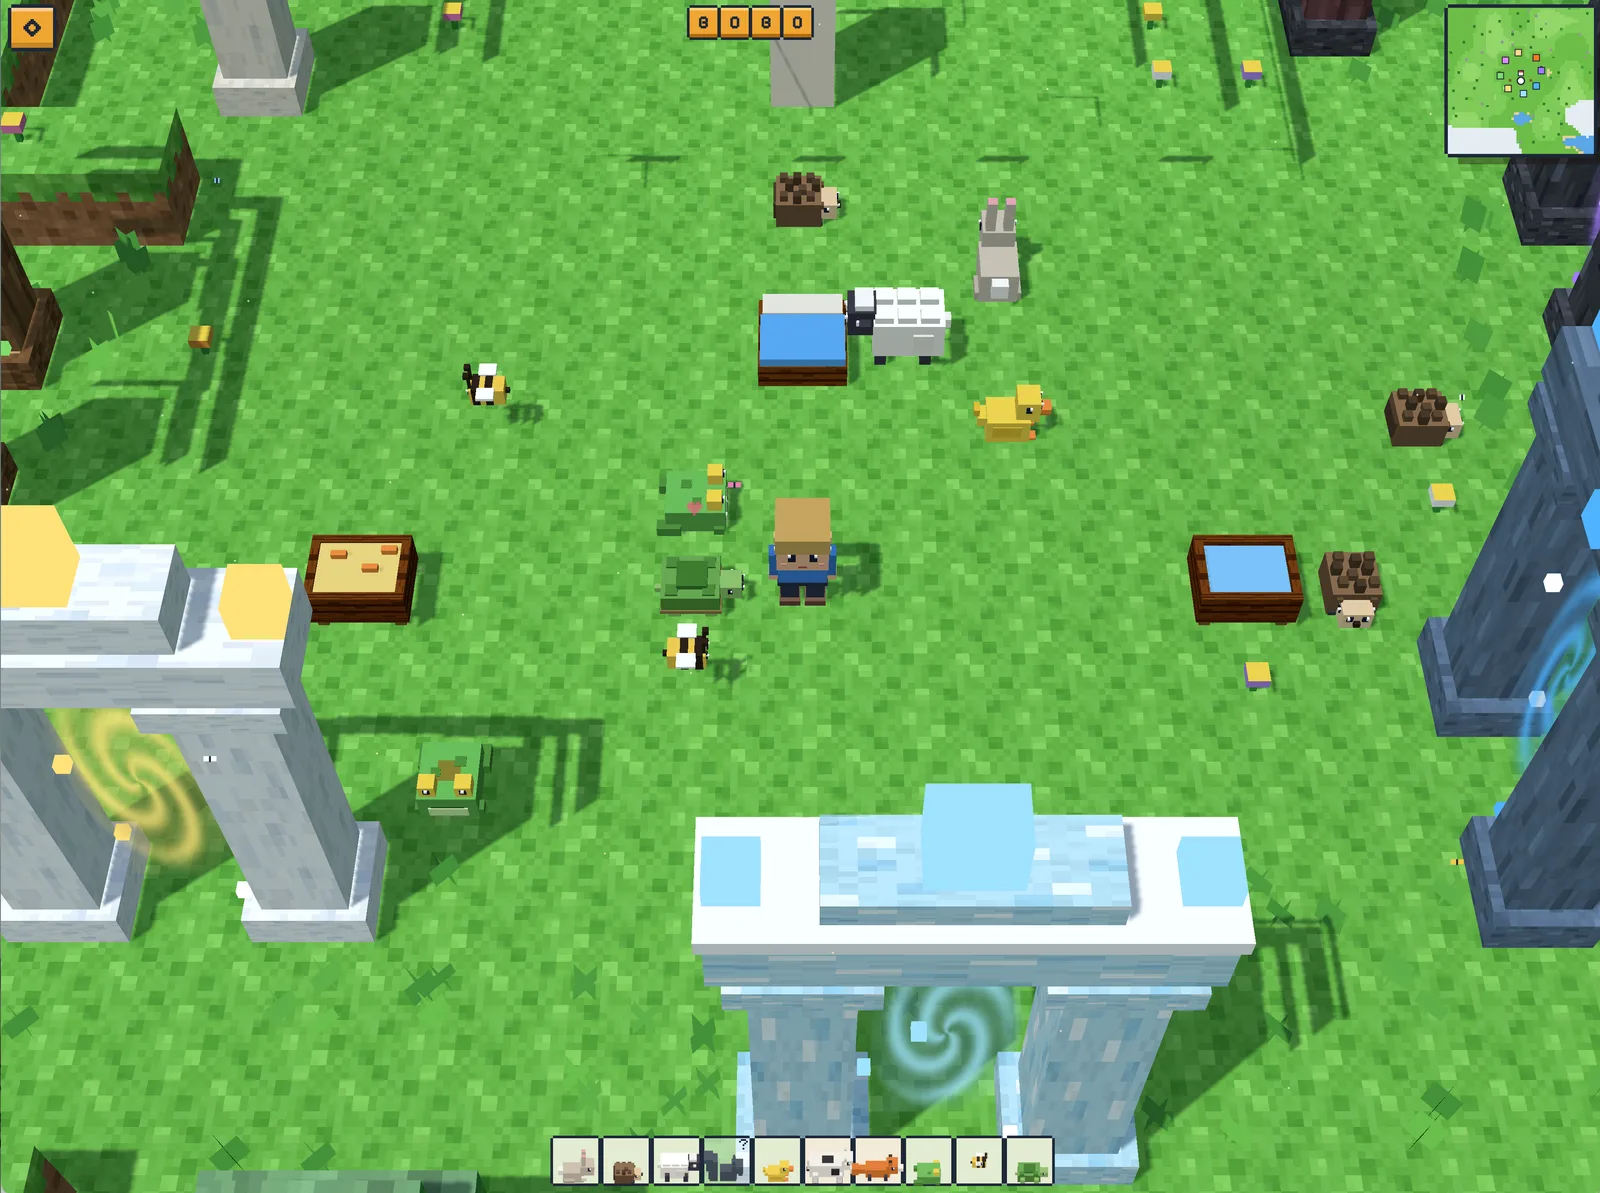
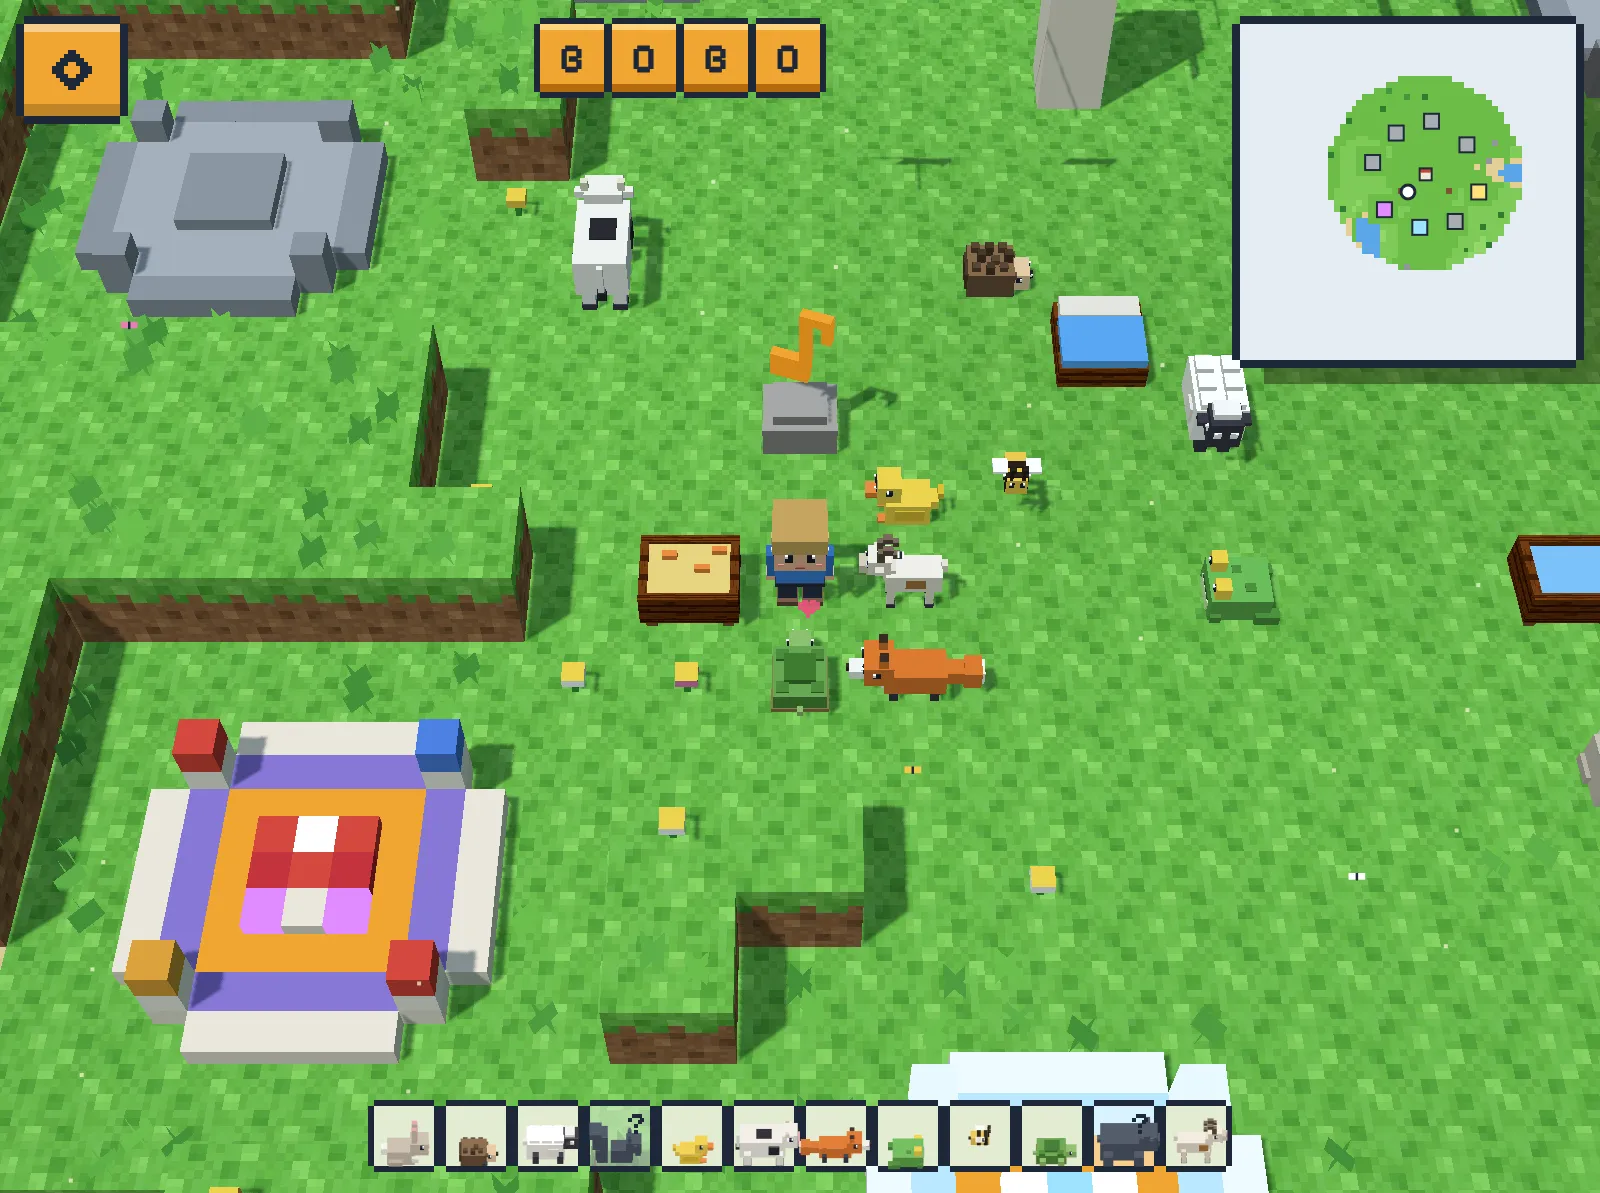
Make gold stand out on the lava platform and refresh the landing shot
On the lava platform the glowing cracks touched the gold frame and the
access fields, and gold and glow were nearly the same colour. The cracks
now stop short of the gold, and the flame picture has dark corners, so
the gold sits on dark basalt. A data test checks that every socket voxel
next to gold differs clearly from it in every world.

The landing screenshot shows the Lichtung with portal platforms instead
of the old portal gates; alt text and caption describe it.

diff --git a/src/data/games/mitwachsen-portals.test.ts b/src/data/games/mitwachsen-portals.test.ts
@@ -55,6 +55,31 @@ describe('Portal-Plattformen: Form', () => {
     });
   }
 
+  it('Gold hebt sich in jeder Welt vom Sockel daneben ab (bereit und nach der Ankunft)', () => {
+    const rgb = (c: string) => [1, 3, 5].map((i) => parseInt(c.slice(i, i + 2), 16));
+    const dist = (a: string, b: string) => Math.hypot(...rgb(a).map((v, i) => v - rgb(b)[i]!));
+    // Paare (Gold, Nachbar im Sockel) je Welt und Zustand; die Mitte liegt unter dem Bild
+    const pairs = GATES.flatMap((g) =>
+      (['ready', 'arrived'] as const).flatMap((look) => {
+        const base = platformLook(g.id, 'gate', look).filter((v) => v.layer === 0);
+        const at = new Map(base.map((v) => [`${v.x},${v.z}`, v]));
+        return base
+          .filter((v) => v.gold)
+          .flatMap((v) => [
+            at.get(`${v.x + 1},${v.z}`),
+            at.get(`${v.x - 1},${v.z}`),
+            at.get(`${v.x},${v.z + 1}`),
+            at.get(`${v.x},${v.z - 1}`),
+          ])
+          .filter((n) => n && !n.gold && n.role !== 'core')
+          .map((n) => ({ n: n!, label: `${g.id} ${look} ${n!.x},${n!.z}` }));
+      }),
+    );
+    expect(pairs.length).toBeGreaterThan(100);
+    // Glut lag bei gut 50
+    for (const { n, label } of pairs) expect(dist(n.color, GOLD.top), label).toBeGreaterThanOrEqual(70);
+  });
+
   it('Rahmen-Ring fürs Lauflicht: 16 verschiedene Plätze, genau die des Gold-Rahmens', () => {
     const frame = platformVoxels('eis')
       .filter((v) => v.role === 'frame')

diff --git a/src/data/games/mitwachsen-portals.ts b/src/data/games/mitwachsen-portals.ts
@@ -122,20 +122,21 @@ export const PLATFORMS: Record<GateTheme, readonly (readonly string[])[]> = {
     [EMPTY, '.p.....P.', EMPTY, '...uWu...', '...WWW...', '...WWW...', EMPTY, '.P.....p.', EMPTY],
     NONE,
   ],
-  // Glutstein: kühler Basalt, Glutrisse über die Zugänge zur Mitte, runde Glutsteine; Bild: freundliche Flamme
+  // Glutstein: kühler Basalt, Glutrisse an den Zugängen, runde Glutsteine; Bild: freundliche Flamme. Um das Gold liegt
+  // nur dunkler Basalt (die Risse enden vorher), die Flamme hat dunkle Ecken: Gold und Glut sind sich sonst zu ähnlich
   lava: [
     [
       '..xxrxx..',
-      '.XXXrXXX.',
+      '.XXXXXXX.',
       'xXGGGGGXx',
       'xXGRRRGXx',
-      'rrGRRRGrr',
+      'rXGRRRGXr',
       'xXGRRRGXx',
       'xXGGGGGXx',
-      '.XXXrXXX.',
+      '.XXXXXXX.',
       '..xxrxx..',
     ],
-    [EMPTY, '.X.....X.', EMPTY, '...xrx...', '...rRr...', '...rRr...', EMPTY, '.X.....X.', EMPTY],
+    [EMPTY, '.X.....X.', EMPTY, '...xrx...', '...rRr...', '...xRx...', EMPTY, '.X.....X.', EMPTY],
     [EMPTY, '.r.....r.', EMPTY, EMPTY, EMPTY, EMPTY, EMPTY, '.r.....r.', EMPTY],
   ],
   // Kristallnest: dunkle Schale, Kristallsäulen in den Ecken; Bild: Kristall-Raute

diff --git a/src/data/landing.ts b/src/data/landing.ts
@@ -30,8 +30,9 @@ export const ABOUT = {
   ],
   // Bildunterschrift zum Bild der Lichtung (src/assets/games/mitwachsen.webp)
   shotAlt:
-    'Die Lichtung im Spiel: in der Mitte das Bett und die Figur, rundherum Hase, Igel, Schaf, Ente, Frosch und Biene, links ein Futtertrog, rechts ein Wassertrog, am Rand leuchtende Portale',
-  shotCaption: 'Die Lichtung mit dem Bett: Hier wohnen die Tiere, die dein Kind schon nach Hause gebracht hat.',
+    'Die Lichtung im Spiel: in der Mitte die Figur, dahinter Bett und Klangstein, rundherum Kuh, Zicklein, Igel, Schaf, Biene, Ente, Fuchs, Schildkröte und Frosch auf der Wiese, links ein Futtertrog, rechts ein Wassertrog, unten links eine leuchtende Portal-Plattform mit Pilzbild, oben links eine graue, noch schlafende Plattform',
+  shotCaption:
+    'Die Lichtung mit dem Bett: Hier wohnen die Tiere, die dein Kind schon nach Hause gebracht hat. Ringsum bringen Portal-Plattformen die Figur zu den großen Toren.',
   // Eckdaten zusätzlich zu denen aus src/content/games/mitwachsen.md
   facts: [
     ['Kosten', 'kostenlos, ohne Werbung'],

diff --git a/docs/specs/mitwachsen.md b/docs/specs/mitwachsen.md
@@ -262,7 +262,7 @@ Invarianten:
 | Nebel | keine Blöcke: Die Welt verblasst am Rand des Erkundeten weich in die Himmelsfarbe und verschwindet im Dunst. 3D: Nebel-Maske (128 × 128 Felder um die Figur, zweimal weich verwischt) als Textur, ein Shader-Zusatz mischt nach der Beleuchtung in die Himmelsfarbe (nachts dunkel). 2D: Unerkundetes bleibt leer, am Rand heller Dunst |
 | Große Tore | Mächtige Torhäuser (9 Felder breit, Türme gut 6 Ebenen hoch) mit geschlossener Doppeltür und leuchtendem Zeichen, je Welt geschmückt: Eis (Schneehauben, Eisspitzen, Eiszapfen), Sand (Stufenkronen, Bänder), Wasser (Wasserfälle, Muscheln), Lava (glühende Adern und Krone), Höhle (leuchtende Kristalle), Wald (Laubkronen, Ranken), Wolken (Wolkentürme, Regenbogen), Pilze (Pilzstiele mit Riesenhüten). Vor der Figur wird ihr Mauerwerk durchsichtig. Steht die Figur vor einem Tor, lichtet sich der Nebel im Gang dahinter (Blick in die Welt) |
 | Welten hinter den Toren | Eis: Schnee, zugefrorene Seen, Eisblöcke, Schneetannen. Sand: Dünen, blühende Kakteen, Oasen mit Palmen. Wasser: Inseln mit Palmen und Seerosen. Lava: Basalt, glühende Flüsse und Seen, kahle Bäume. Höhle: dunkler Stein, leuchtende Kristalle, Tropfsteine. Wald: Bäume, Tannen, Beerenbüsche, Farne. Wolken: Wolkeninseln über dem Himmel. Pilze: lila Moos und Riesenpilze. Tiere dort sind vorerst die der Landschaft |
-| Portal-Plattformen | Flaches Achteck aus 9 × 9 Voxeln (ein Voxel ein Drittel Feld): Sockel 0,25 hoch im Material der Welt, Mittelfeld 0,15 höher mit dem Bild der Welt, niedrige Zierde nur auf den Eckfeldern (höchstens 0,9); auf der Plattform steht die Figur entsprechend höher. **Schlafend** am Tor: alles matt, Bild nur grau eingeritzt, kein Gold. **Schlafend** am Bett: leerer grauer Sockel aus Lichtungsstein, für alle Welten gleich (erhöhte Mitte, je ein grauer Eckstein, damit man sieht, dass die Ecken fest sind), ohne Bild, ohne Zierde der Welt. **Erwachen:** das Licht kommt in vier Stufen. **Bereit:** Bild leuchtet und pulsiert, Gold-Rahmen um die Mitte („hier drauf“) mit Lauflicht, Funken kreisen flach über der Mitte; am Bett Lauflicht und Funken nur, wenn die Figur nah ist. **Angekommen:** Bild gedimmt, kein Rahmen-Gold, dafür Gold auf den äußeren Voxeln der vier Zugänge („erst runter“), pulsiert in Stufen; beim Heruntersteigen springt es mit einem Pling zurück in den Rahmen. Bei reduzierter Bewegung: keine Funken, kein Lauflicht, kein Pulsieren, kein Stufen-Erwachen; Zustände nur an Farbe und Helligkeit (Gold mit dunkler Kante). 2D-Ersatz: dieselben Voxel als kleine Quader, ohne Bewegung. Auf der Karte: Kästchen, sobald erkundet, grau solange schlafend, farbig, sobald wach. Erwachen und Reisen klingen und funkeln |
+| Portal-Plattformen | Flaches Achteck aus 9 × 9 Voxeln (ein Voxel ein Drittel Feld): Sockel 0,25 hoch im Material der Welt, Mittelfeld 0,15 höher mit dem Bild der Welt, niedrige Zierde nur auf den Eckfeldern (höchstens 0,9); auf der Plattform steht die Figur entsprechend höher. **Schlafend** am Tor: alles matt, Bild nur grau eingeritzt, kein Gold. **Schlafend** am Bett: leerer grauer Sockel aus Lichtungsstein, für alle Welten gleich (erhöhte Mitte, je ein grauer Eckstein, damit man sieht, dass die Ecken fest sind), ohne Bild, ohne Zierde der Welt. **Erwachen:** das Licht kommt in vier Stufen. **Bereit:** Bild leuchtet und pulsiert, Gold-Rahmen um die Mitte („hier drauf“) mit Lauflicht, Funken kreisen flach über der Mitte; am Bett Lauflicht und Funken nur, wenn die Figur nah ist. **Angekommen:** Bild gedimmt, kein Rahmen-Gold, dafür Gold auf den äußeren Voxeln der vier Zugänge („erst runter“), pulsiert in Stufen; beim Heruntersteigen springt es mit einem Pling zurück in den Rahmen. Neben dem Gold liegt in jeder Welt eine deutlich andere Farbe (Lava: dunkler Basalt statt Glut, die Flamme hat dunkle Ecken; *Test: „Gold hebt sich in jeder Welt vom Sockel daneben ab“*). Bei reduzierter Bewegung: keine Funken, kein Lauflicht, kein Pulsieren, kein Stufen-Erwachen; Zustände nur an Farbe und Helligkeit (Gold mit dunkler Kante). 2D-Ersatz: dieselben Voxel als kleine Quader, ohne Bewegung. Auf der Karte: Kästchen, sobald erkundet, grau solange schlafend, farbig, sobald wach. Erwachen und Reisen klingen und funkeln |
 | Hochformat | In 3D rückt die Kamera im Hochformat weiter weg (bis 1,8-fach), der Nebel rückt mit |
 | Kamera | folgt der Figur; Figur in der Bildmitte. Etwa 18 Felder breit |
 | Feinheit | Texturen 8 × 8 wie auf der Seite, jedes Texel mit feiner Körnung in 2 × 2 Unterpixeln |

diff --git a/docs/games/mitwachsen.md b/docs/games/mitwachsen.md
@@ -105,7 +105,7 @@ Große, freie Wiese (gut 160 × 136 Felder) mit sanften Hügeln, Teichen, einzel
 - **Aussehen:** Dunkle Felsen und Berge, dazwischen glühende Lavaflüsse, die warm leuchten, auch nachts. Höher als die anderen Welten, mit viel zum Klettern.
 - **Besonderes:** Ganz ungefährlich: Die Figur kommt nicht in die Lava, die Lava leuchtet nur. Kein Feuer, kein Rauch, der Angst macht.
 - **Tiere (Ideen):** Bergziege, Salamander, Murmeltier, Adler, Steinbock.
-- **Portal-Plattform:** Glutstein: kühler Basalt mit Glutrissen zur Mitte, runde Glutsteine; Bild: freundliche Flamme.
+- **Portal-Plattform:** Glutstein: kühler Basalt mit Glutrissen an den Zugängen, runde Glutsteine; Bild: freundliche Flamme. Um das Gold liegt nur dunkler Basalt, sonst verschwimmt es mit der Glut.
 
 ### Wald
 
